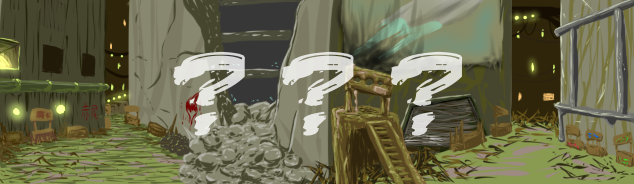
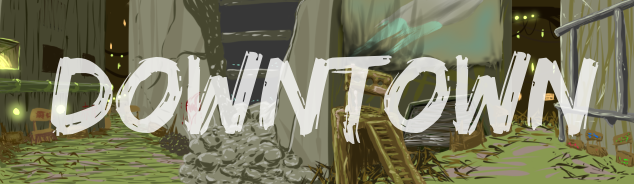
Update lore pages.

Changed region(s): [[0.0599, 0.2717, 0.959, 0.788]]

diff --git a/src/components/lore/places/kuserra/Downtown.vue b/src/components/lore/places/kuserra/Downtown.vue
@@ -1,0 +1,42 @@
+<template>
+  <article class="mt-8 prose max-w-none">
+    <h2>Downtown</h2>
+    <p>
+      In the heart of Redtail territory, Kuserra's "Downtown" is the prime
+      location for residences and shops. If it can be bought in Kuserra, chances
+      are pretty good that someone is selling it here. The region spans nearly
+      two dozen city blocks, and has hundreds of market stalls lining its
+      criss-crossing streets. A lot of work has gone into reclaiming the region
+      from the ruins. Debris has been cleared from main paths, roads and
+      walkways have been flattened, structures have been built or reinforced to
+      prevent collapse, and many interior spaces have been cleaned out and
+      turned into comfortable dwellings for those willing and able to pay for
+      them.
+    </p>
+    <p>
+      The Downtown is close to where most caravans come to the city to trade, so
+      the merchants who are fortunate enough to keep up with their taxes also
+      get first pick of the cheap bulk goods and supplies brought into the city
+      from across the Deadlands. The security and upkeep of this area is
+      priority one for the Redtail gang, and it is protected by regular patrols
+      that enforce a strict Zero-Tolerance Violence policy -- albeit any way
+      they choose to enforce it.
+    </p>
+    <p>
+      In addition to several market strips, the Downtown also includes many
+      other notable locations, such as Betty's grocery, the Redtail's casino,
+      Twitch’s bank, the Tail Twirl club, and the Upside Bar, among others. The
+      density and relative safety of the Downtown area attracts a lot of people,
+      though at night, most of them return home to the far cheaper slums that
+      surround the region.
+    </p>
+  </article>
+</template>
+
+<script>
+export default {
+  name: 'Downtown',
+}
+</script>
+
+<style scoped></style>

diff --git a/src/components/lore/places/Kuserra.vue b/src/components/lore/places/Kuserra.vue
@@ -35,7 +35,7 @@
     >
       <div>
         <section-button
-          path="unknown"
+          path="/lore/places/kuserra/unknown"
           style="max-width: 300px"
           :img="require('@/assets/lore/lore-locations-citadel.png')"
           alt="Citadel"
@@ -45,7 +45,7 @@
       </div>
       <div>
         <section-button
-          path="unknown"
+          path="/lore/places/kuserra/unknown"
           style="max-width: 300px"
           :img="require('@/assets/lore/lore-locations-underground.png')"
           alt="Underground"
@@ -55,15 +55,15 @@
       </div>
       <div>
         <section-button
-          path="unknown"
+          path="/lore/places/kuserra/downtown"
           style="max-width: 300px"
           :img="require('@/assets/lore/lore-locations-downtown.png')"
           alt="Downtown"
           small
-          disabled
         />
       </div>
     </div>
+    <router-view></router-view>
     <div class="text-center mt-8">
       <BackButton path="/lore/places">Back to Places</BackButton>
     </div>

diff --git a/src/router.js b/src/router.js
@@ -2,6 +2,7 @@ import Vue from 'vue'
 import Router from 'vue-router'
 
 const Comic = () => import('./views/Comic')
+const Unknown = () => import('./components/lore/places/Unknown')
 
 Vue.use(Router)
 
@@ -24,10 +25,21 @@ export default new Router({
         {
           path: 'places/kuserra',
           component: () => import('./components/lore/places/Kuserra'),
+          children: [
+            {
+              path: 'downtown',
+              component: () =>
+                import('./components/lore/places/kuserra/Downtown'),
+            },
+            {
+              path: 'unknown',
+              component: Unknown,
+            },
+          ],
         },
         {
           path: 'places/unknown',
-          component: () => import('./components/lore/places/Unknown'),
+          component: Unknown,
         },
         {
           path: 'culture',

diff --git a/src/components/SiteNav.vue b/src/components/SiteNav.vue
@@ -12,9 +12,9 @@
       <span class="px-2 text-gray-600">|</span>
       <router-link class="hover:text-white relative group" to="/lore"
         >Lore
-        <!--        <span-->
-        <!--          class="absolute top-0 right-0 inline-block h-2 w-2 -mt-0.5 -mr-1.5 rounded-full bg-pink-800 group-hover:bg-white"-->
-        <!--        ></span>-->
+        <span
+          class="absolute top-0 right-0 inline-block h-2 w-2 -mt-0.5 -mr-1.5 rounded-full bg-pink-800 group-hover:bg-white"
+        ></span>
       </router-link>
     </div>
   </nav>

diff --git a/src/components/lore/SectionButton.vue b/src/components/lore/SectionButton.vue
@@ -1,6 +1,6 @@
 <template>
   <button>
-    <router-link :to="disabled ? '' : path">
+    <router-link :to="disabled ? '' : path" class="inline-block">
       <img
         class="rounded border"
         :class="[displayClass, displaySizeClass]"
